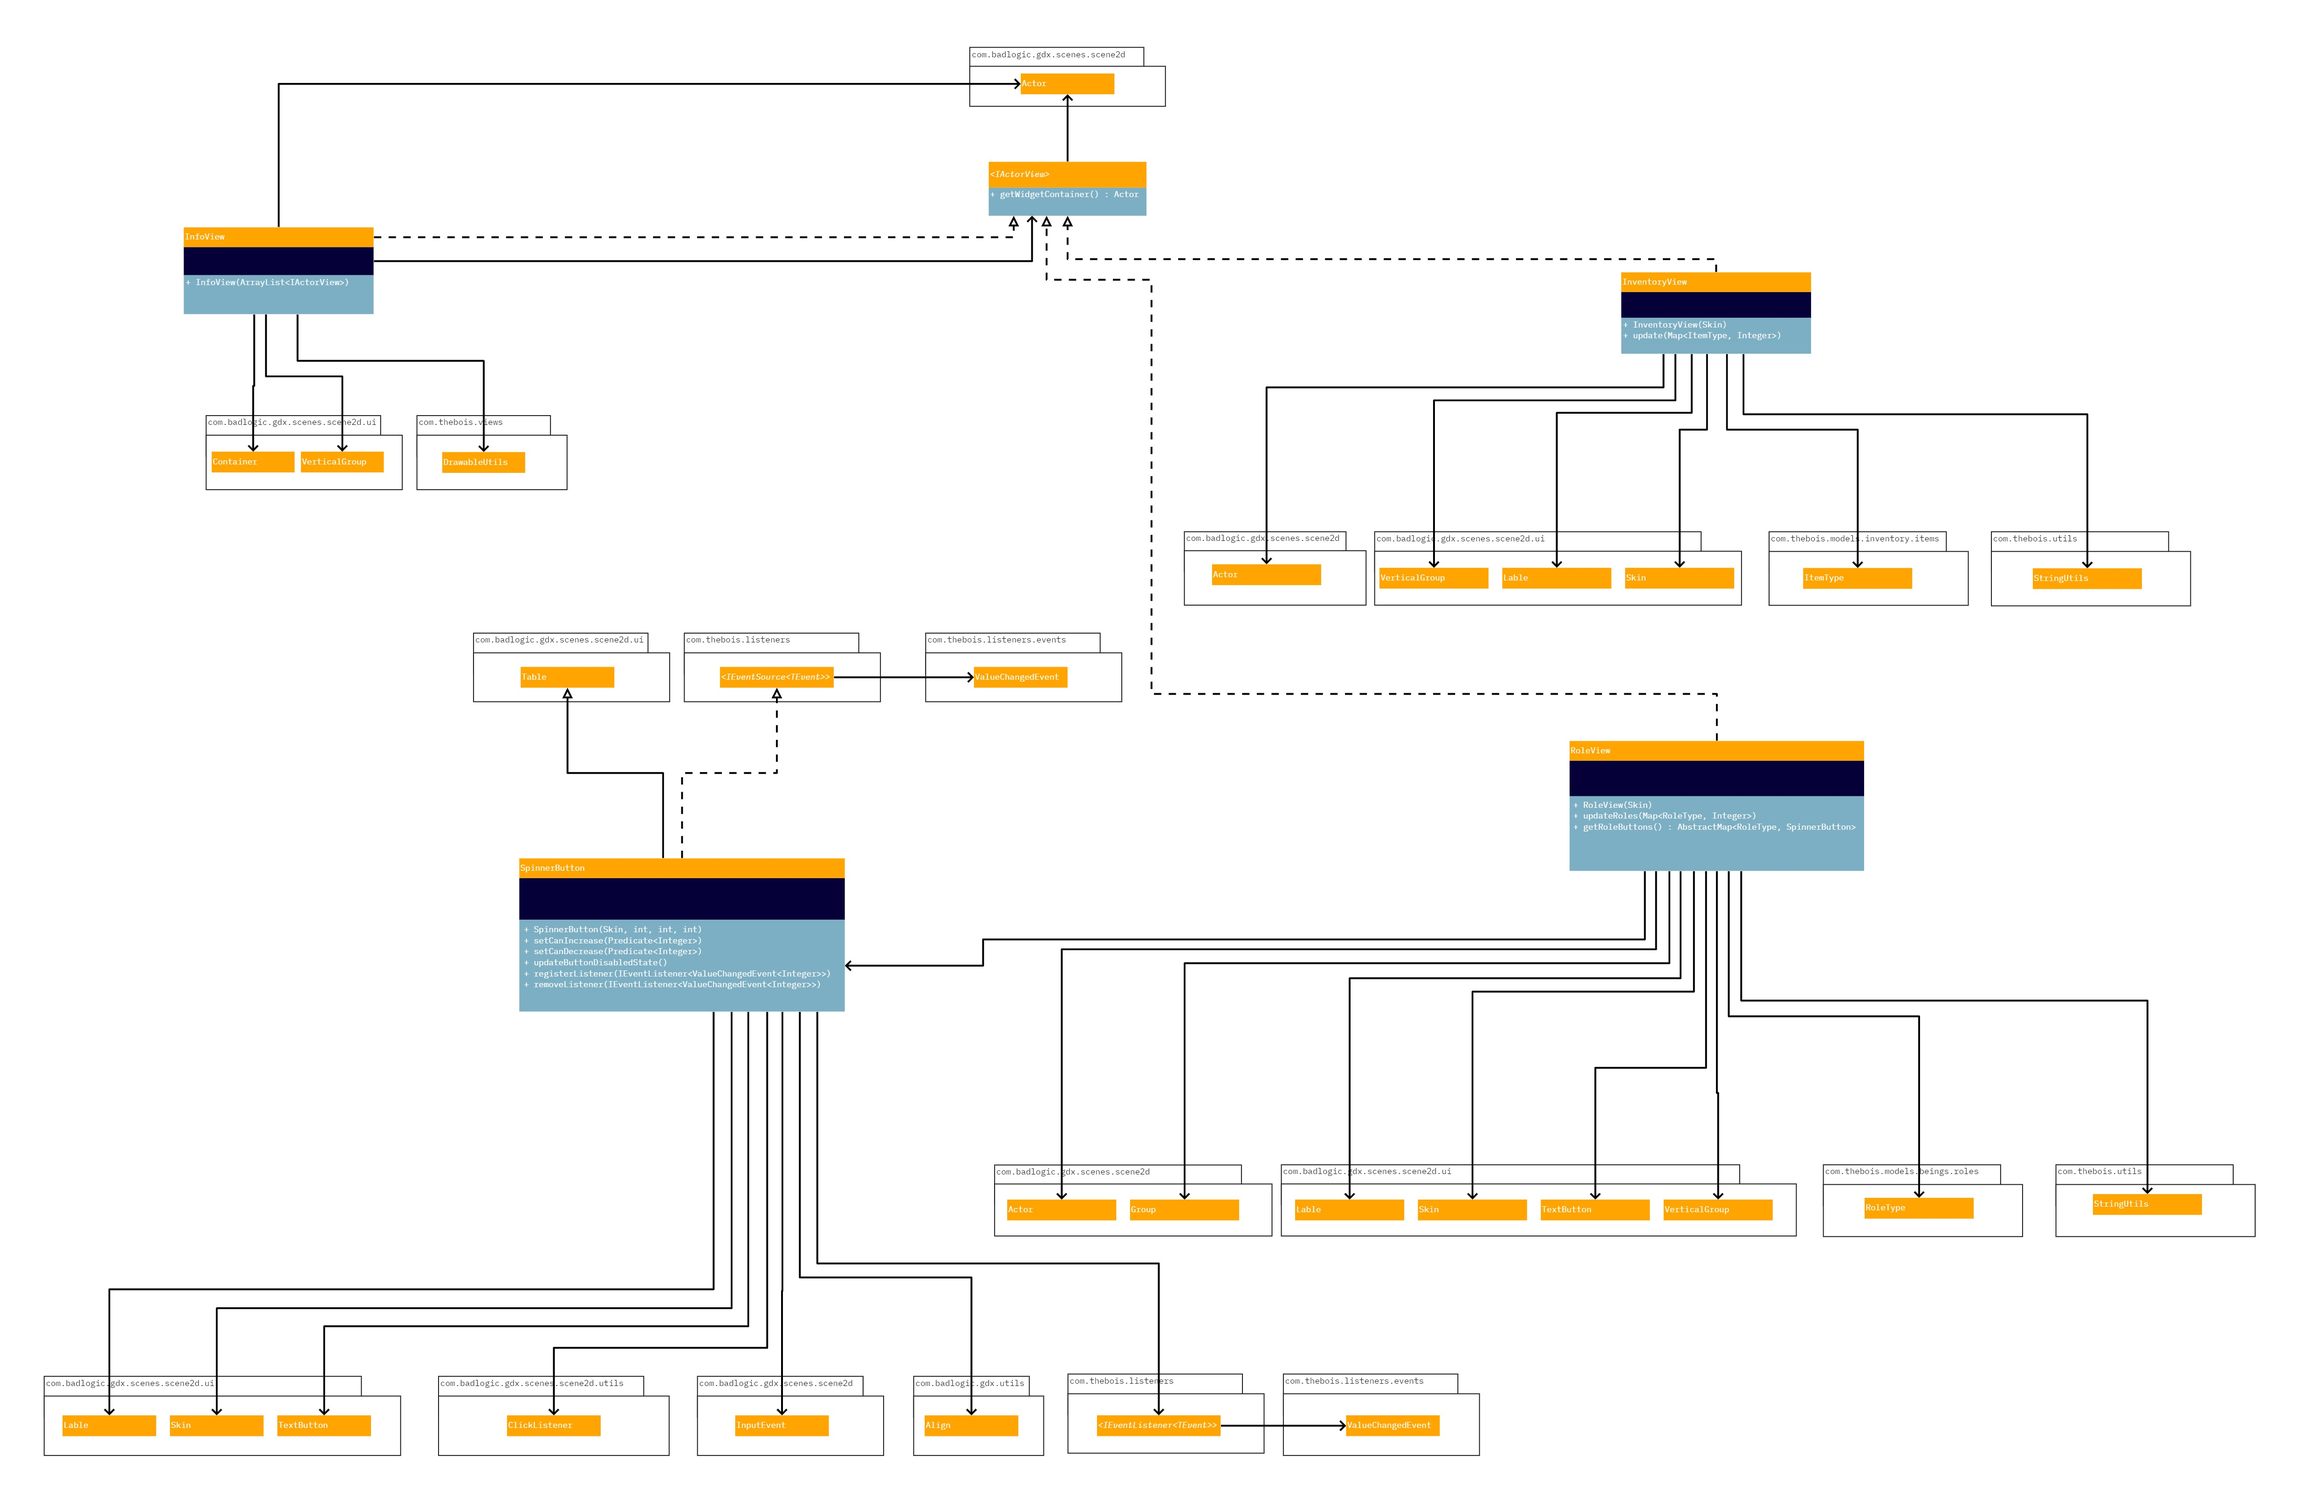
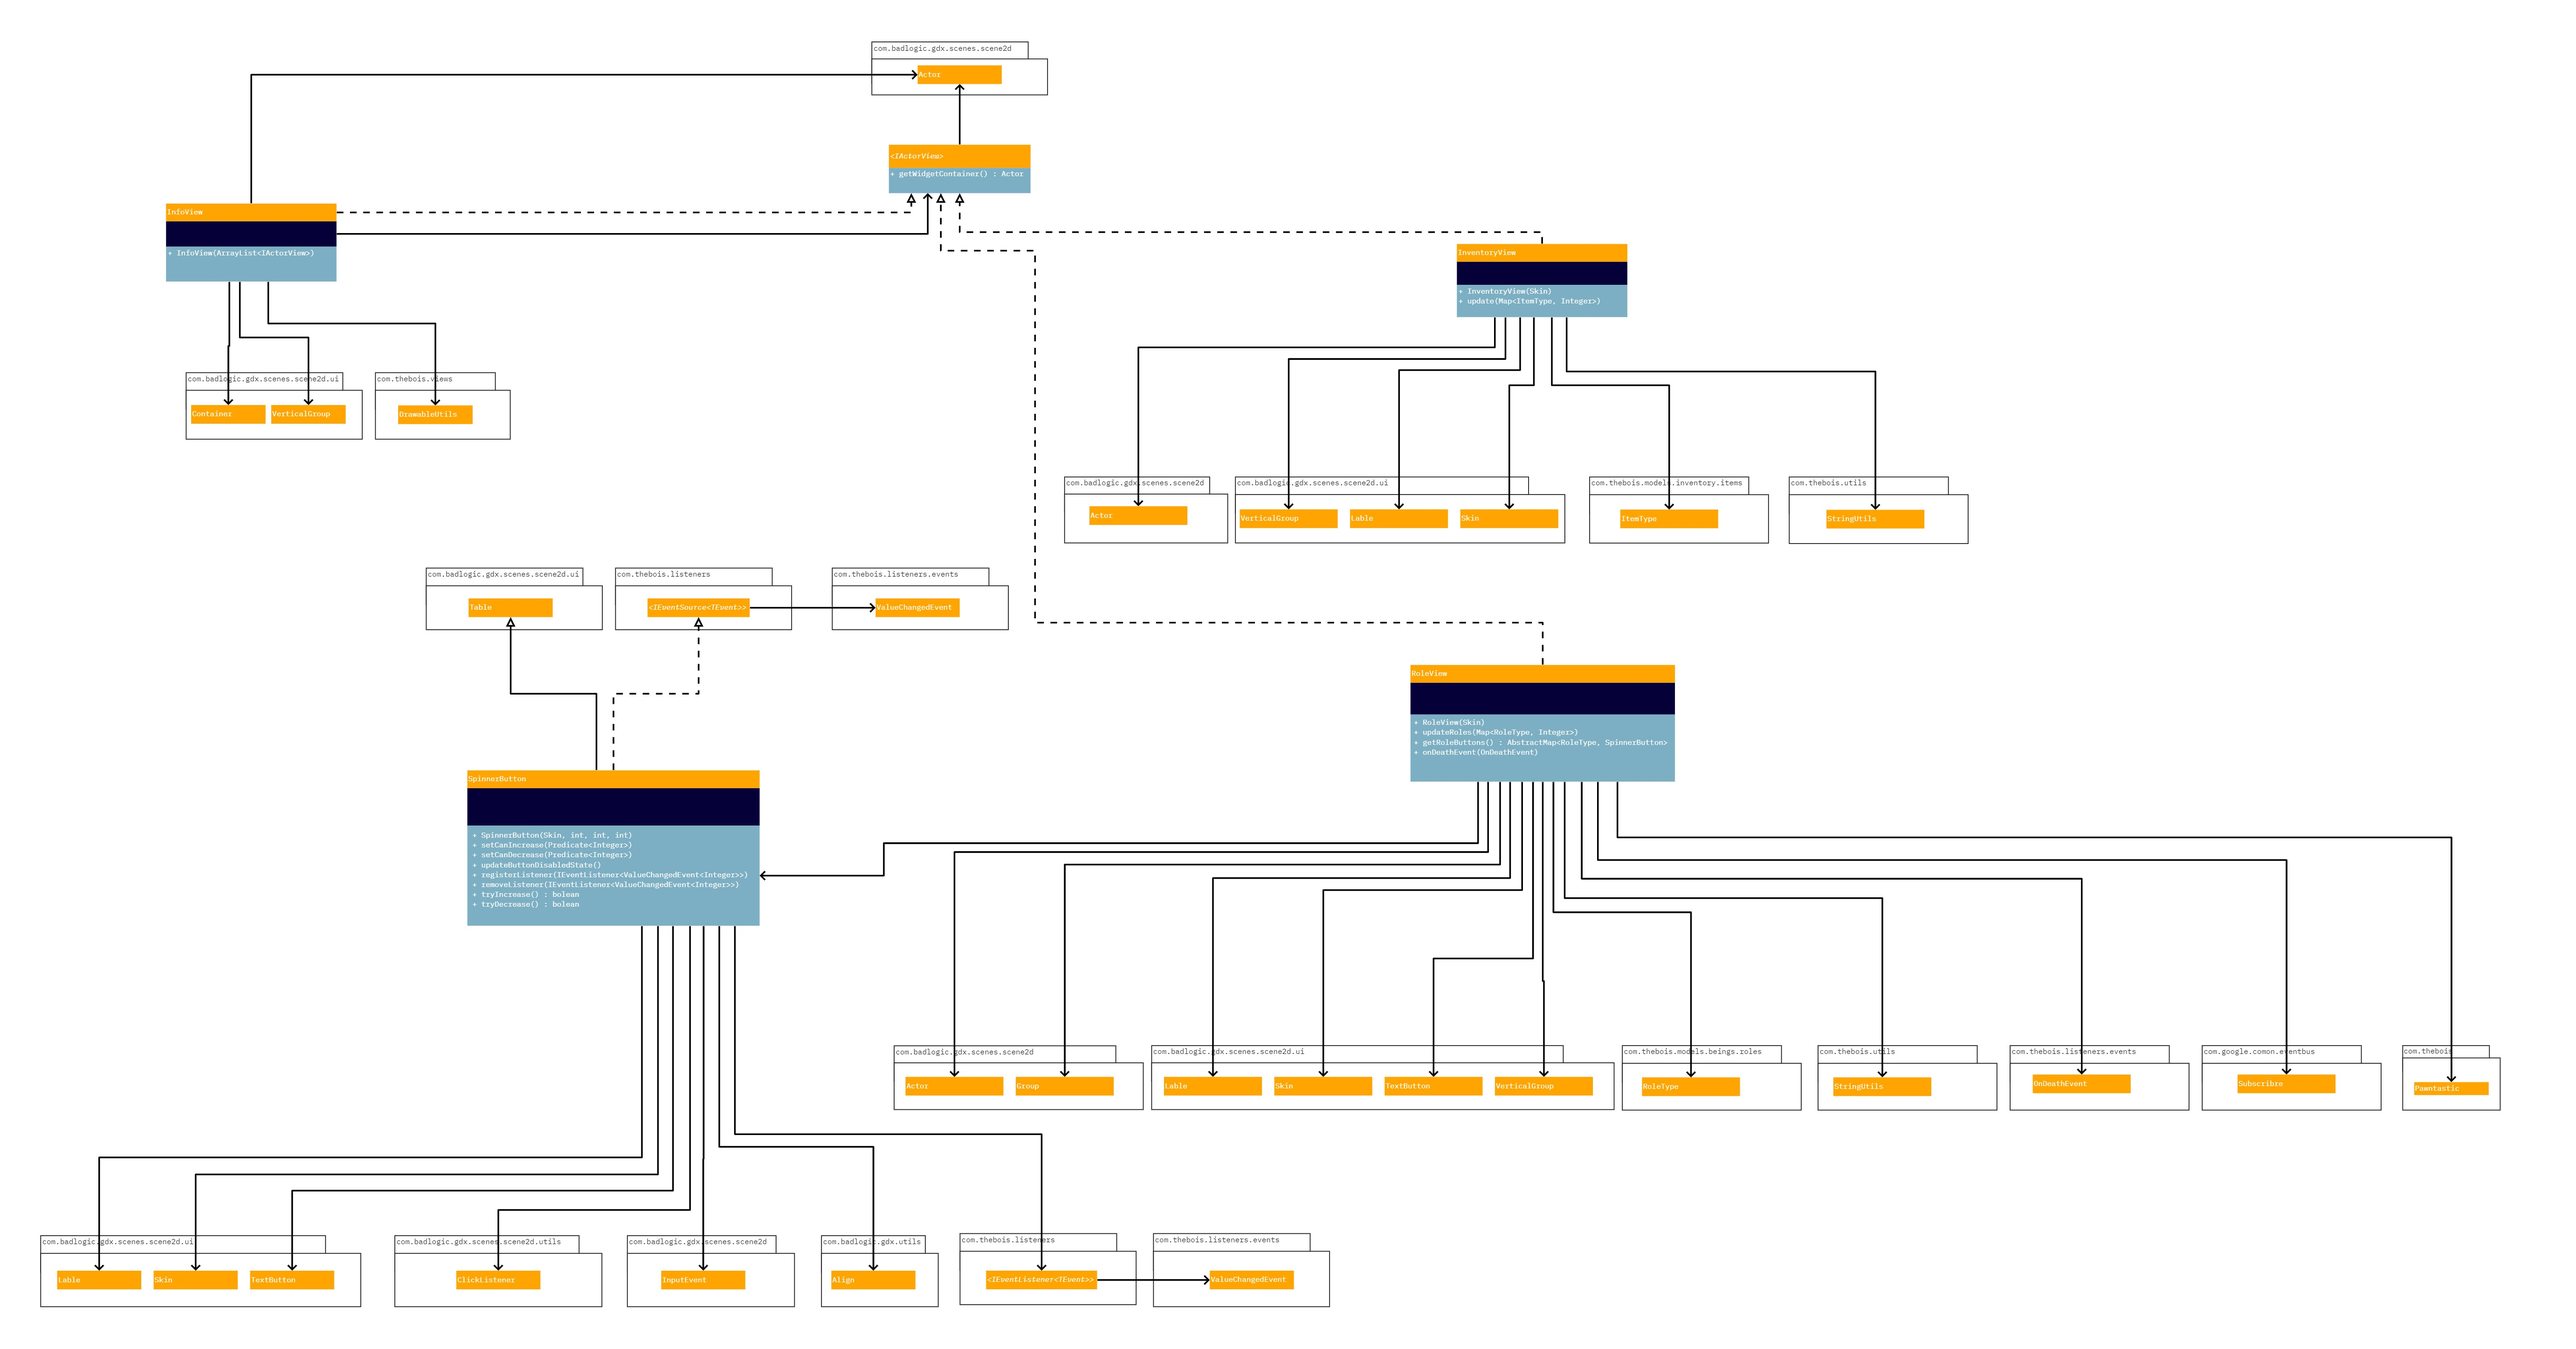
Update UML diagrams

diff --git a/src/main/java/com/thebois/controllers/info/RoleController.java b/src/main/java/com/thebois/controllers/info/RoleController.java
@@ -7,7 +7,6 @@ import java.util.stream.Collectors;
 
 import com.badlogic.gdx.scenes.scene2d.ui.Skin;
 
-import com.thebois.Pawntastic;
 import com.thebois.controllers.IController;
 import com.thebois.listeners.events.ValueChangedEvent;
 import com.thebois.models.beings.roles.AbstractRole;
@@ -36,7 +35,6 @@ public class RoleController implements IController<IActorView> {
     public RoleController(final IRoleAllocator roleAllocator, final Skin skin) {
         this.roleAllocator = roleAllocator;
         this.roleView = new RoleView(skin);
-        Pawntastic.getEventBus().register(this);
 
         roleView.updateRoles(createRoleCountMap());
 
